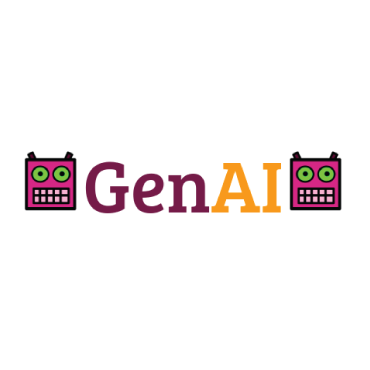
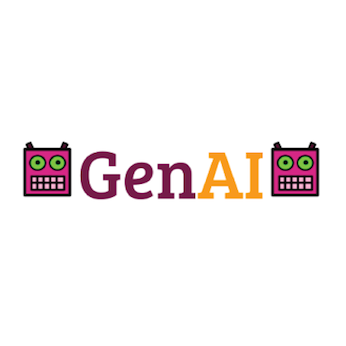
fxed picture sizes and made them square on slider on home page, and added website links for groups and links to articles. Added new collaborators

diff --git a/index.html b/index.html
@@ -452,7 +452,7 @@
                                     <!--Team Content-->
                                     <div class="team-two-content">
                                         <h4>K12 AI Curriculum</h4>
-                                        <span class="alt-font gradient-text1">Personal Robots Group</span>
+                                        <span class="alt-font gradient-text1"><a href= "https://www.media.mit.edu/groups/personal-robots/overview/"> Personal Robots Group</a></span>
                                         <p>We are developing tools for teachers to bring Artificial Intelligence education into their classrooms.</p>
                                         <!--Team Social-->
                                         <div class="team-two-social">
@@ -475,11 +475,11 @@
                                     <!--Team Content-->
                                     <div class="team-two-content">
                                         <h4>Scratch Learning</h4>
-                                        <span class="alt-font gradient-text1">Lifelong Kindergarten</span>
+                                        <span class="alt-font gradient-text1"><a href="https://www.media.mit.edu/groups/lifelong-kindergarten/overview/">Lifelong Kindergarten</a></span>
                                         <p>Scratch helps young people learn to think creatively, reason systematically, and work collaboratively — essential skills for life in the 21st century.</p>
                                         <!--Team Social-->
                                         <div class="team-two-social">
-                                              <a class="facebook-text-hvr" href="javascript:void(0);"><i class="fa fa-external-link" aria-hidden="true"></i></a>
+                                              <a class="facebook-text-hvr" href="https://scratch.mit.edu/"><i class="fa fa-external-link" aria-hidden="true"></i></a>
                                         </div>
                                     </div>
                                 </li>
@@ -499,11 +499,11 @@
                                     <!--Team Content-->
                                     <div class="team-two-content">
                                         <h4>PopBots</h4>
-                                        <span class="alt-font gradient-text1">Personal Robots Group</span>
+                                           <span class="alt-font gradient-text1"><a href= "https://www.media.mit.edu/groups/personal-robots/overview/"> Personal Robots Group</a></span>
                                         <p>PopBots are programmable, intelligent social robots that play with children to help them learn about AI. </p>
                                         <!--Team Social-->
                                         <div class="team-two-social">
-                                              <a class="facebook-text-hvr" href="javascript:void(0);"><i class="fa fa-external-link" aria-hidden="true"></i></a>
+                                              <a class="facebook-text-hvr" href="https://www.media.mit.edu/projects/pop-kit/overview/"><i class="fa fa-external-link" aria-hidden="true"></i></a>
                                         </div>
                                     </div>
                                 </li>
@@ -520,11 +520,11 @@
                                     <!--Team Content-->
                                     <div class="team-two-content">
                                         <h4>GANPaint</h4>
-                                        <span class="alt-font gradient-text1">MIT CSAIL</span>
+                                        <span class="alt-font gradient-text1"><a href="https://www.csail.mit.edu/">MIT CSAIL</a></span>
                                         <p>The GANPaint application is an MIT CSAIL - IBM Watson collaboration. It allows a user to activate and deactivate features of a GAN trained on images.</p>
                                         <!--Team Social-->
                                         <div class="team-two-social">
-                                              <a class="facebook-text-hvr" href="javascript:void(0);"><i class="fa fa-external-link" aria-hidden="true"></i></a>
+                                              <a class="facebook-text-hvr" href="http://gandissect.res.ibm.com/ganpaint.html?project=churchoutdoor&layer=layer4"><i class="fa fa-external-link" aria-hidden="true"></i></a>
                                         </div>
                                     </div>
                                 </li>
@@ -553,7 +553,7 @@
                                     <!--Team Content-->
                                     <div class="team-two-content">
                                         <h4>GenAI for K-2nd Grade Classrooms</h4>
-                                        <span class="alt-font gradient-text1">Personal Robots Group</span>
+                                           <span class="alt-font gradient-text1"><a href= "https://www.media.mit.edu/groups/personal-robots/overview/"> Personal Robots Group</a></span>
                                         <p>GenAI K2 introduces early elementary school students to robotics and artificial intelligence.</p>
                                         <!--Team Social-->
                                         <div class="team-two-social">
@@ -575,7 +575,7 @@
                                     <!--Team Content-->
                                     <div class="team-two-content">
                                         <h4>GenAI for 3-5th Grade Classrooms</h4>
-                                        <span class="alt-font gradient-text1">Personal Robots Group</span>
+                                           <span class="alt-font gradient-text1"><a href= "https://www.media.mit.edu/groups/personal-robots/overview/"> Personal Robots Group</a></span>
                                         <p>GenAI 3-5 introduces grade school children to robotics and artificial intelligence.</p>
                                         <!--Team Social-->
                                         <div class="team-two-social">
@@ -609,7 +609,7 @@
                                     <!--Team Content-->
                                     <div class="team-two-content">
                                         <h4>PopPet: ScratchX Compatible Robotic AI Platform</h4>
-                                        <span class="alt-font gradient-text1">Personal Robots Group</span>
+                                          <span class="alt-font gradient-text1"><a href= "https://www.media.mit.edu/groups/personal-robots/overview/"> Personal Robots Group</a></span>
                                         <p>PopPet is a simple Arduino robot originally created by Jaidyn Edwards, that children can customize and program.</p>
                                         <!--Team Social-->
                                         <div class="team-two-social">
@@ -631,11 +631,11 @@
                                     <!--Team Content-->
                                     <div class="team-two-content">
                                         <h4>Robotic Literacy Tools</h4>
-                                        <span class="alt-font gradient-text1">Personal Robots Group</span>
+                                           <span class="alt-font gradient-text1"><a href= "https://www.media.mit.edu/groups/personal-robots/overview/"> Personal Robots Group</a></span>
                                         <p>This project is designed to develop new learning games focused on improving children’s vocabulary and early literacy skills.</p>
                                         <!--Team Social-->
                                         <div class="team-two-social">
-                                              <a class="facebook-text-hvr" href="javascript:void(0);"><i class="fa fa-external-link" aria-hidden="true"></i></a>
+                                              <a class="facebook-text-hvr" href="https://learning-with-social-robots.media.mit.edu/"><i class="fa fa-external-link" aria-hidden="true"></i></a>
                                         </div>
                                     </div>
                                 </li>
@@ -665,11 +665,11 @@
                                     <!--Team Content-->
                                     <div class="team-two-content">
                                         <h4>Growth Mindset and Curiosity</h4>
-                                        <span class="alt-font gradient-text1">Personal Robots Group</span>
+                                           <span class="alt-font gradient-text1"><a href= "https://www.media.mit.edu/groups/personal-robots/overview/"> Personal Robots Group</a></span>
                                         <p>A growth mindset and curiosity have significant impact on children's academic and social achievements.</p>
                                         <!--Team Social-->
                                         <div class="team-two-social">
-                                              <a class="facebook-text-hvr" href="javascript:void(0);"><i class="fa fa-external-link" aria-hidden="true"></i></a>
+                                              <a class="facebook-text-hvr" href="https://www.media.mit.edu/projects/robot-mindset-and-curiosity/overview/"><i class="fa fa-external-link" aria-hidden="true"></i></a>
                                         </div>
                                     </div>
                                 </li>
@@ -687,11 +687,11 @@
                                     <!--Team Content-->
                                     <div class="team-two-content">
                                         <h4>AI + Ethics Curriculum for Middle School</h4>
-                                        <span class="alt-font gradient-text1">Personal Robots Group</span>
+                                           <span class="alt-font gradient-text1"><a href= "https://www.media.mit.edu/groups/personal-robots/overview/"> Personal Robots Group</a></span>
                                         <p>This project seeks to develop an open source curriculum for middle school students on the topic of artificial intelligence.</p>
                                         <!--Team Social-->
                                         <div class="team-two-social">
-                                              <a class="facebook-text-hvr" href="javascript:void(0);"><i class="fa fa-external-link" aria-hidden="true"></i></a>
+                                              <a class="facebook-text-hvr" href="https://www.media.mit.edu/projects/ai-ethics-for-middle-school/overview/"><i class="fa fa-external-link" aria-hidden="true"></i></a>
                                         </div>
                                     </div>
                                 </li>
@@ -722,7 +722,7 @@
                                     <!--Team Content-->
                                     <div class="team-two-content">
                                         <h4>Conversational Agents</h4>
-                                        <span class="alt-font gradient-text1">MIT CSAIL</span>
+                                       <span class="alt-font gradient-text1"><a href="https://www.csail.mit.edu/">MIT CSAIL</a></span>
                                         <p>Conversational Agents is a  block-based coding tool that simplifies mobile app development.</p>
                                         <!--Team Social-->
                                         <div class="team-two-social">
@@ -744,7 +744,7 @@
                                     <!--Team Content-->
                                     <div class="team-two-content">
                                         <h4>The Personal Image Classifier (PIC) </h4>
-                                        <span class="alt-font gradient-text1">MIT App Inventor</span>
+                                        <span class="alt-font gradient-text1"><a href="https://appinventor.mit.edu/explore/">MIT App Inventor</a></span>
                                         <p>PIC is an intuitive web interface hosted where users can train and test their own personalized image classification models using images taken by theirweb-cams.</p>
                                         <!--Team Social-->
                                         <div class="team-two-social">
@@ -780,7 +780,7 @@
                                     <!--Team Content-->
                                     <div class="team-two-content">
                                         <h4>Zhorai</h4>
-                                        <span class="alt-font gradient-text1">Personal Robots Group</span>
+                                           <span class="alt-font gradient-text1"><a href= "https://www.media.mit.edu/groups/personal-robots/overview/"> Personal Robots Group</a></span>
                                         <p>Zhorai was a final project for the "Democratizing AI through K12 AI Education Class" of Spring 2019. </p>
                                         <!--Team Social-->
                                         <div class="team-two-social">
@@ -805,11 +805,11 @@
                                     <!--Team Content-->
                                     <div class="team-two-content">
                                         <h4>Beaverworks</h4>
-                                        <span class="alt-font gradient-text1">MIT Lincoln Lab</span>
+                                        <span class="alt-font gradient-text1"><a href="https://www.ll.mit.edu/">MIT Lincoln Lab</a></span>
                                         <p>The MIT Lincoln Laboratory Beaver Works Center (Lincoln Beaver Works) conducts research and educational programs that strengthen and expand collaborative efforts between Lincoln Laboratory and MIT campus.</p>
                                         <!--Team Social-->
                                         <div class="team-two-social">
-                                              <a class="facebook-text-hvr" href="javascript:void(0);"><i class="fa fa-external-link" aria-hidden="true"></i></a>
+                                              <a class="facebook-text-hvr" href="https://beaverworks.ll.mit.edu/CMS/bw/"><i class="fa fa-external-link" aria-hidden="true"></i></a>
                                         </div>
                                     </div>
                                 </li>
@@ -2349,25 +2349,55 @@
             </div>
         </div>
 
-                            <div class="row">
+                           
+        
+        
+        
+          <div class="row">
 
-                                <!-- Add the two schools here  -->
-                                <div class="col-sm-12 text-center">
-                                         <!--Team Item-->
-                                    <div class="team-box-three item">
+            <div class="col-sm-12 text-center" >
+                <div id="team-three-slider-3" class="owl-carousel owl-theme">
+                    <!--Team Item-->
+
+                    <div class="team-box-three item">
                         <!--Team Image-->
-                                        <div class="team-image">
-                                        <img src="images/amazonLogo.png" alt="image">
-                                        </div>
+                        <div class="team-image">
+                            <img src="images/NashobaLogo.png" alt="image">
+                        </div>
 
                         <!--Team Text-->
-                                        <!-- <div class="team-text">
-                                            <h6 class="mb-3 font-weight-200"> Amazon</h6>
+                        <!-- <div class="team-text">
+                            <h6 class="mb-3 font-weight-200">Google</h6>
                             
-                                        </div> -->
-                                    </div>
-                                </div>
-                            </div>
+                        </div> -->
+                        
+                    </div>
+                    <!--Team Item-->
+                    <div class="team-box-three item">
+                        <!--Team Image-->
+                        <div class="team-image">
+                            <img src="images/GLTSLogo.png" alt="image">
+                        </div>
+
+                        <!--Team Text-->
+                        <!-- <div class="team-text">
+                            <h6 class="mb-3 font-weight-200">IBM</h6>
+                            
+                        </div> -->
+                    </div>
+                   
+                    
+                    
+                    
+                    
+                </div>
+            </div>
+        </div>
+
+                           
+        
+        
+        
         
     </div>
 </section>

diff --git a/css/dropdown.css b/css/dropdown.css
@@ -1,2 +1,3 @@
 #module{}#module a.collapsed:after  {display: block;content: '+ Show More';overflow: hidden;} #module a:not(.collapsed):after {content: '- Show Less';}
 
+
